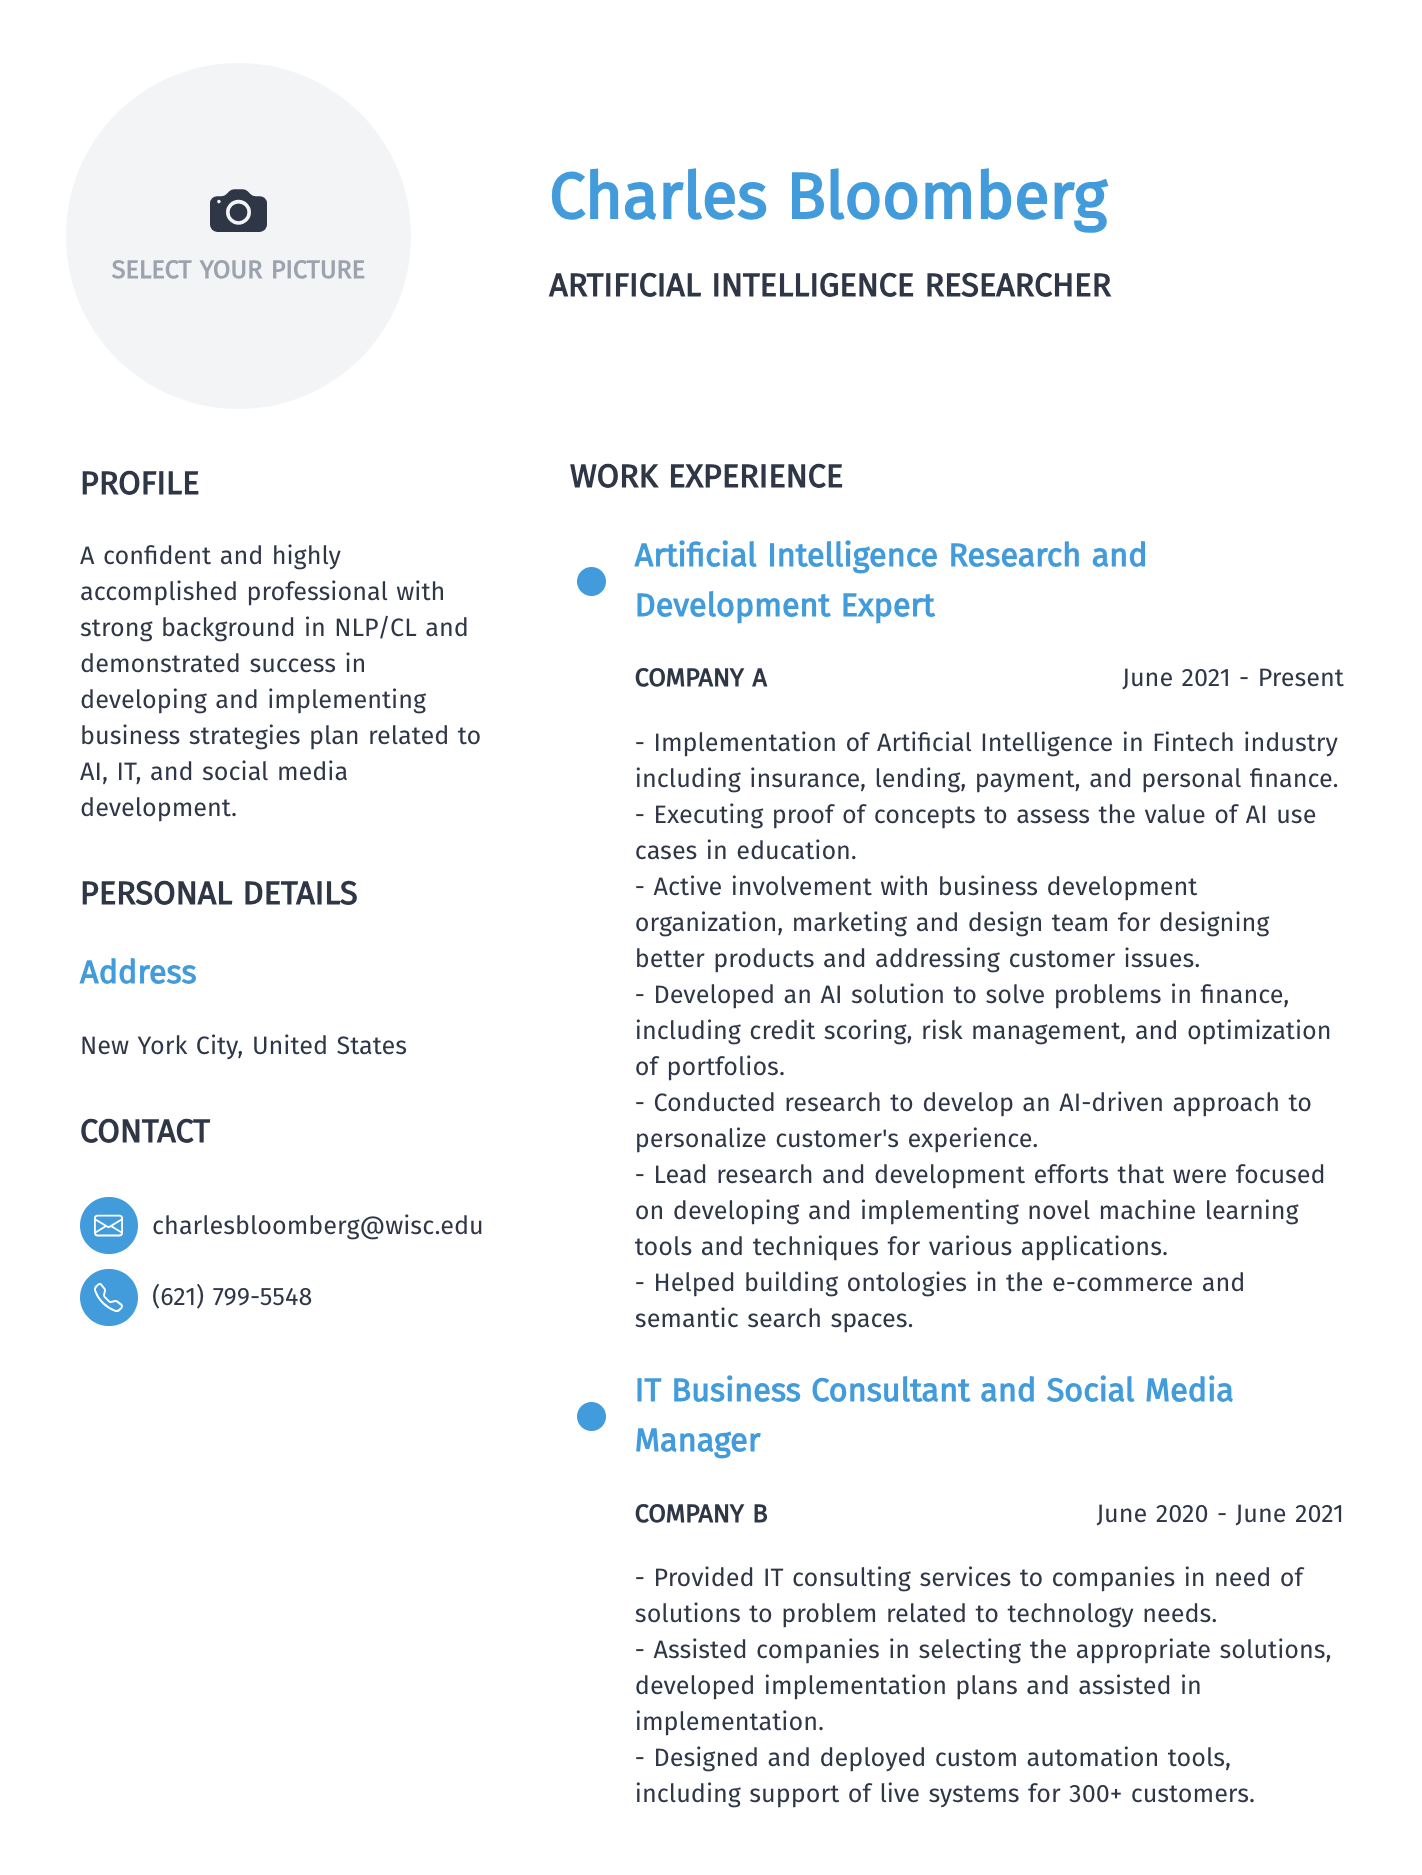
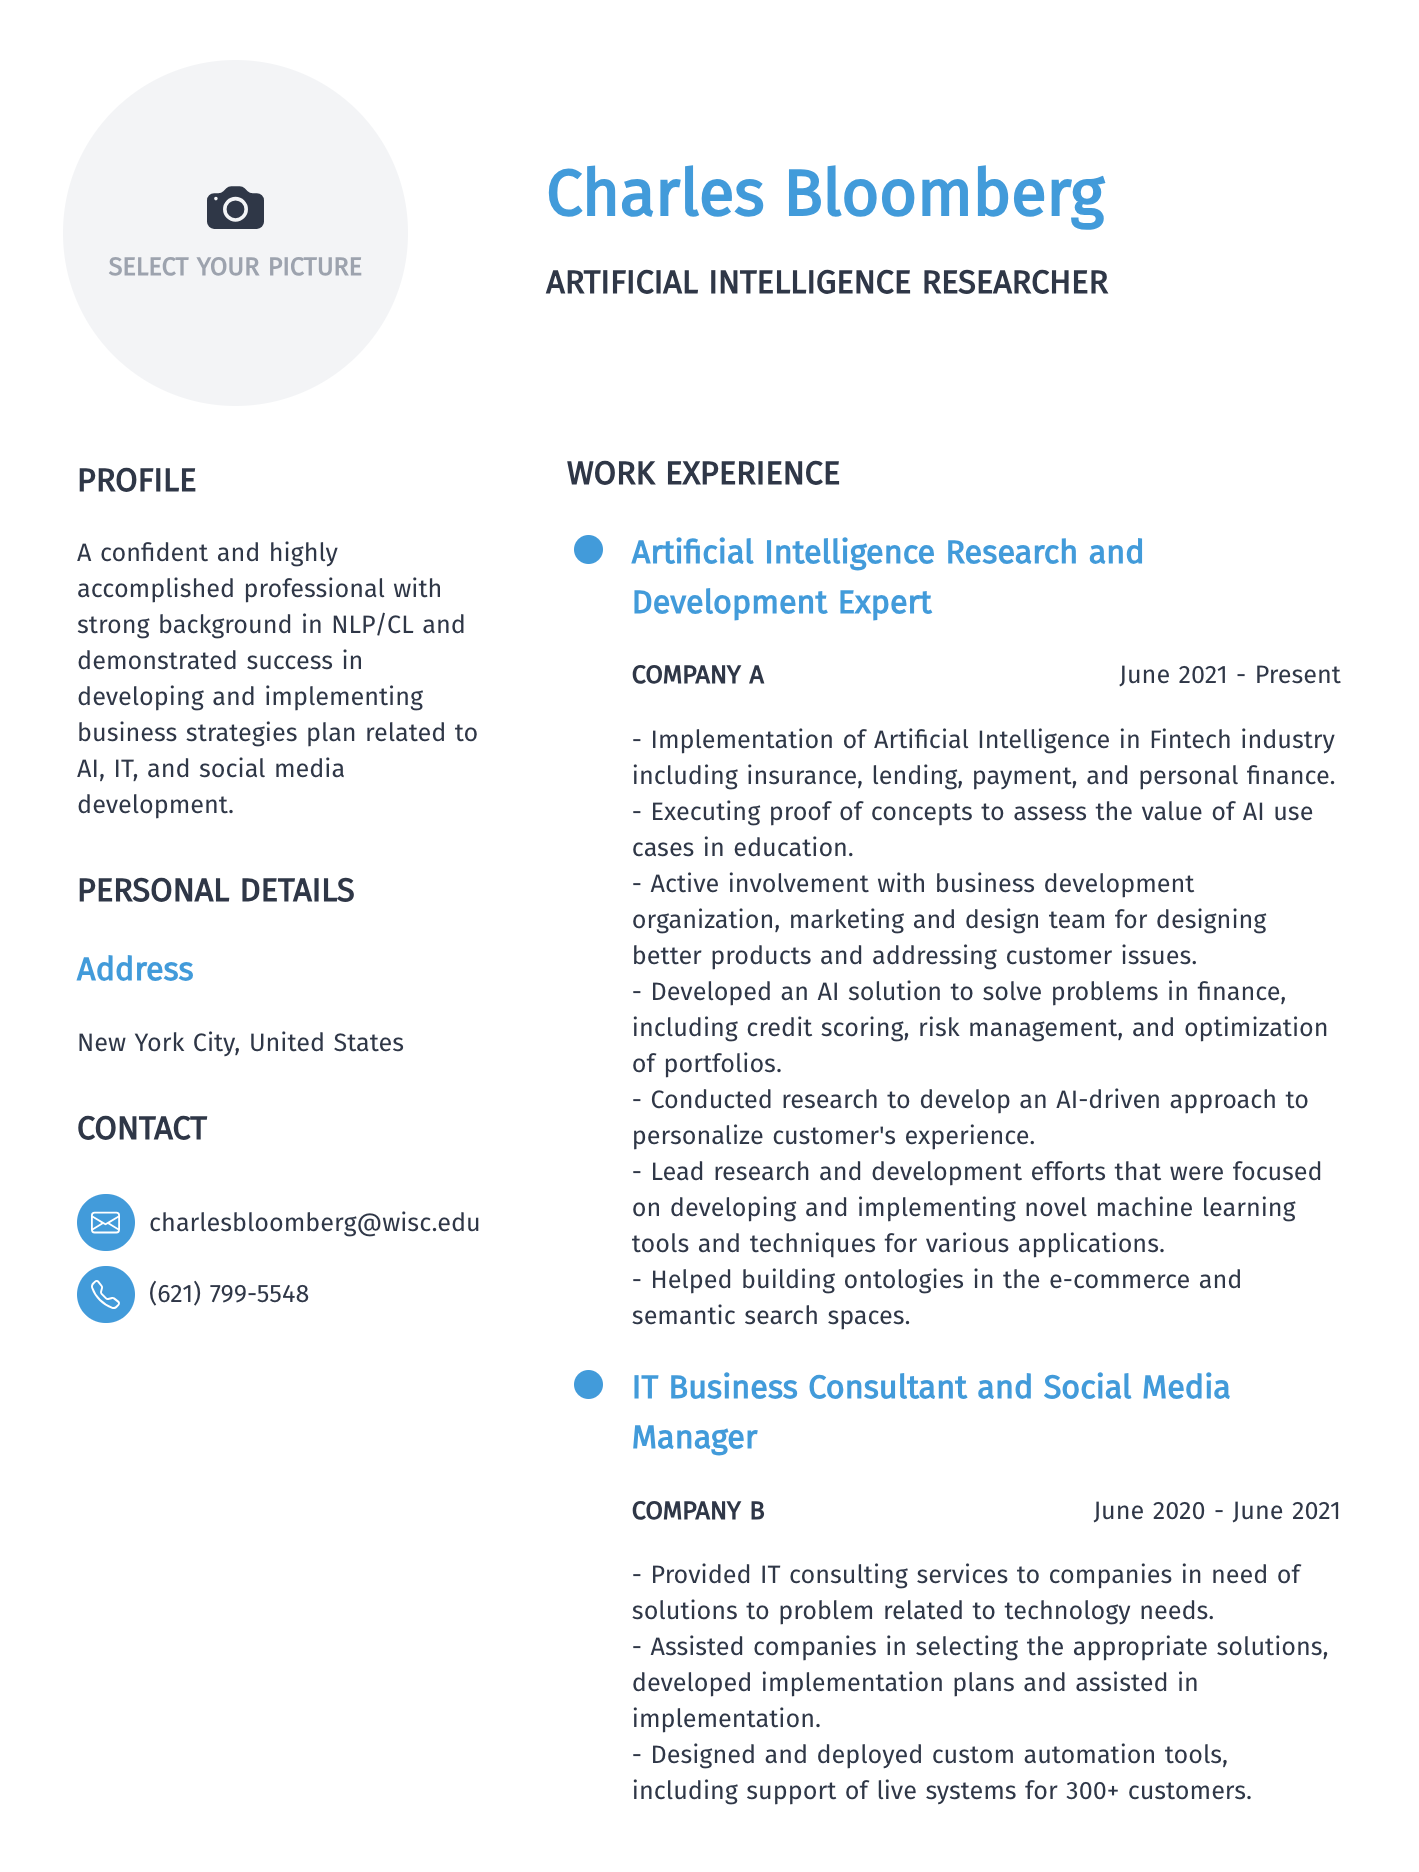
Updated CV formatting

diff --git a/components/CVBuilder.vue b/components/CVBuilder.vue
@@ -178,9 +178,9 @@
                       </svg>
                     </div>
                   </div>
-                  <div class="flex space-x-2 items-center">
+                  <div class="flex space-x-2 items-start">
                     <div>
-                      <div class="h-4 w-4 rounded-full" :style="{ 'background-color': settings.color.hex }"></div>
+                      <div class="h-4 w-4 rounded-full" :class="{ 'mt-2': settings.textSize === 'small', 'mt-3': settings.textSize === 'medium', 'mt-4': settings.textSize === 'large' }" :style="{ 'background-color': settings.color.hex }"></div>
                     </div>
                     <div class="w-full">
                       <TextField :dl-fix="isDownloading" class="block font-bold w-full" :class="{ 'text-sm': settings.textSize === 'small', 'text-lg': settings.textSize === 'medium', 'text-2xl': settings.textSize === 'large' }" :text-size="settings.textSize" :style="{ 'color': settings.color.hex }" type="text" placeholder="Position" v-model="cvData.workExperience.positions[indexWx].position" />
@@ -217,9 +217,9 @@
                       </svg>
                     </div>
                   </div>
-                  <div class="flex space-x-2 items-center">
+                  <div class="flex space-x-2 items-start">
                     <div>
-                      <div class="h-4 w-4 rounded-full" :style="{ 'background-color': settings.color.hex }"></div>
+                      <div class="h-4 w-4 rounded-full"  :class="{ 'mt-2': settings.textSize === 'small', 'mt-3': settings.textSize === 'medium', 'mt-4': settings.textSize === 'large' }" :style="{ 'background-color': settings.color.hex }"></div>
                     </div>
                     <div class="w-full">
                       <TextField :dl-fix="isDownloading" class="block font-bold w-3/4" :class="{ 'text-sm': settings.textSize === 'small', 'text-lg': settings.textSize === 'medium', 'text-2xl': settings.textSize === 'large' }" :text-size="settings.textSize" :style="{ 'color': settings.color.hex }" type="text" placeholder="Degree" v-model="cvData.education.degrees[indexEd].degree" />
